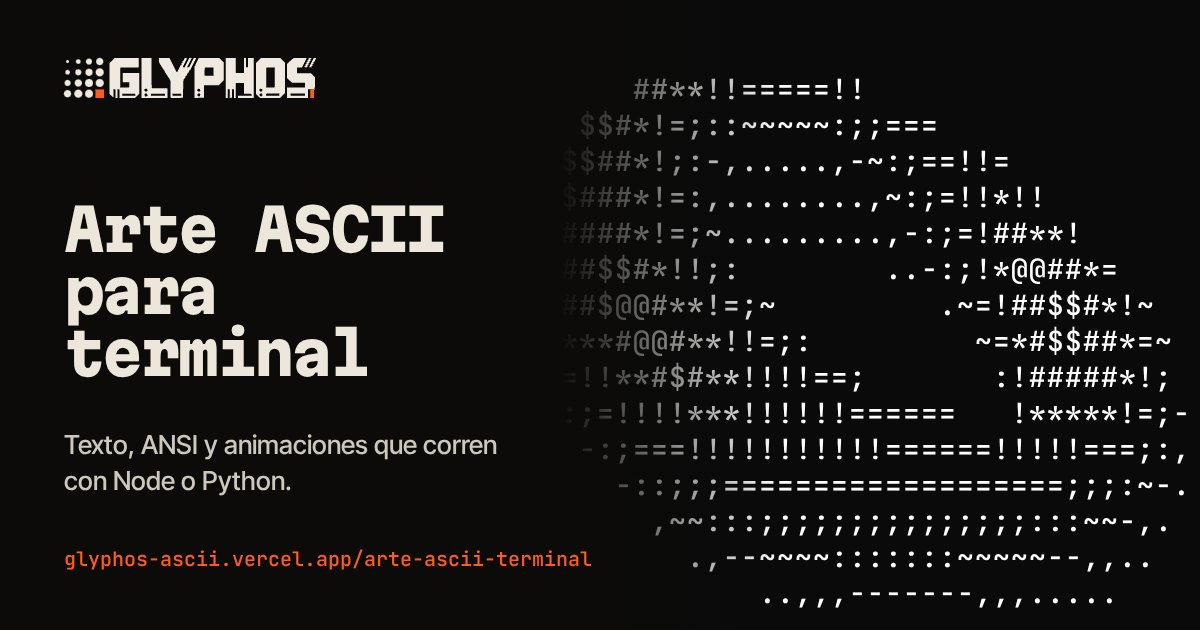
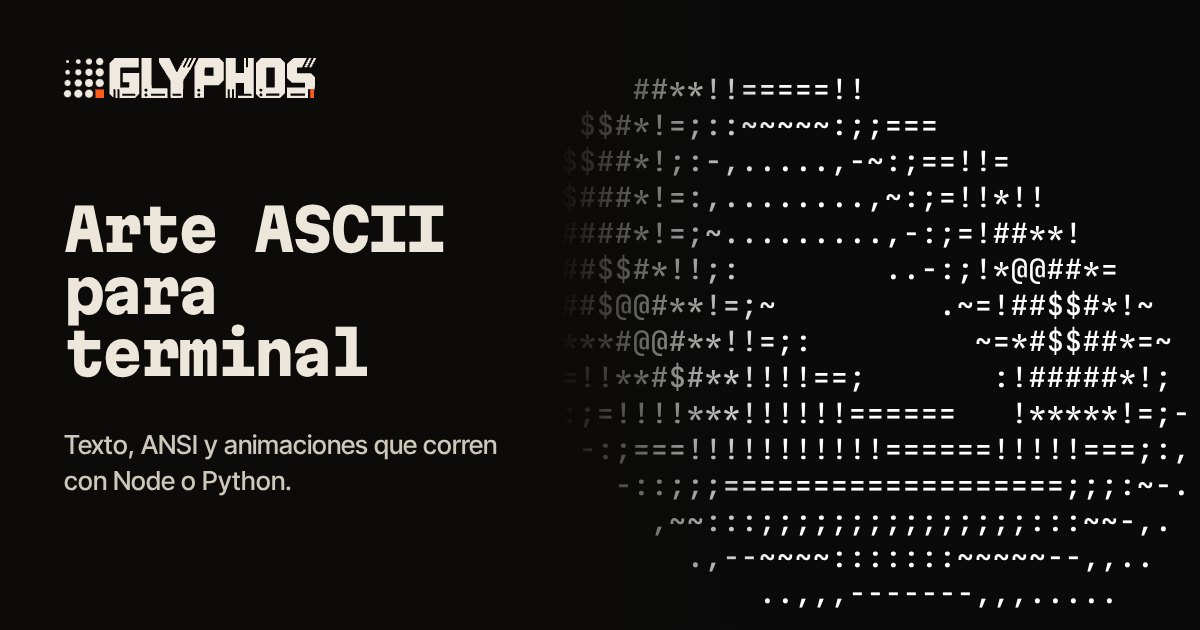
Guide share images without the site's address, like the site's own (the link already shows where it goes)

Changed region(s): [[0.0308, 0.8746, 0.4933, 0.9048]]

diff --git a/dev/posters.ts b/dev/posters.ts
@@ -13,7 +13,7 @@ import { gridToText } from '../src/exporters/text';
 import { EXAMPLES, gridSize } from '../src/pages/examples';
 import { lockup } from '../src/shared/brand';
 import { paintLandscape, syntheticPhoto } from '../src/shared/sample';
-import { GUIDES, SITE_URL, guideById, type Guide } from '../src/shared/site';
+import { GUIDES, guideById, type Guide } from '../src/shared/site';
 
 type Id = Guide['id'];
 const fonts = createFontLoader({ google: false });
@@ -53,7 +53,7 @@ function wrap(x: CanvasRenderingContext2D, text: string, max: number): string[] 
   return lines;
 }
 
-/** 1200×630 share image: the brand, the guide name and its URL on the left; the real render on the right. */
+/** 1200×630 share image: the brand and the guide name on the left (no address: the link itself shows it); the real render on the right. */
 async function og(id: Id): Promise<string> {
   const g = guideById(id);
   await Promise.all([
@@ -86,9 +86,6 @@ async function og(id: Id): Promise<string> {
   x.letterSpacing = '0px';
   x.fillStyle = 'rgba(237,230,218,.86)';
   wrap(x, g.blurb, 480).forEach((l, i) => x.fillText(l, 64, top + title.length * 62 + 16 + i * 36));
-  x.font = '500 20px "JetBrains Mono"';
-  x.fillStyle = '#ff5b1f';
-  x.fillText(SITE_URL.replace('https://', '') + g.path.replace(/\/$/, ''), 64, 566);
   return c.toDataURL('image/jpeg', 0.86);
 }
 
